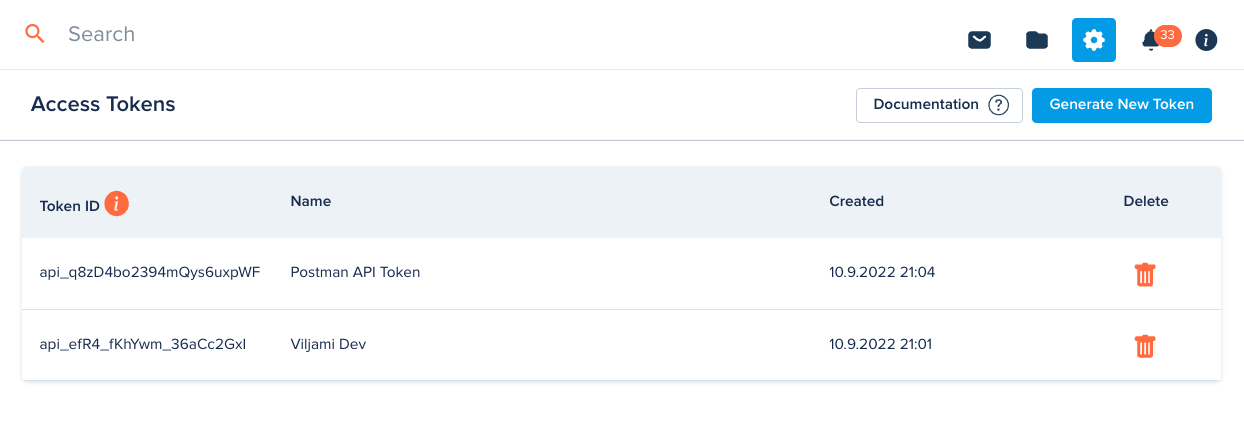
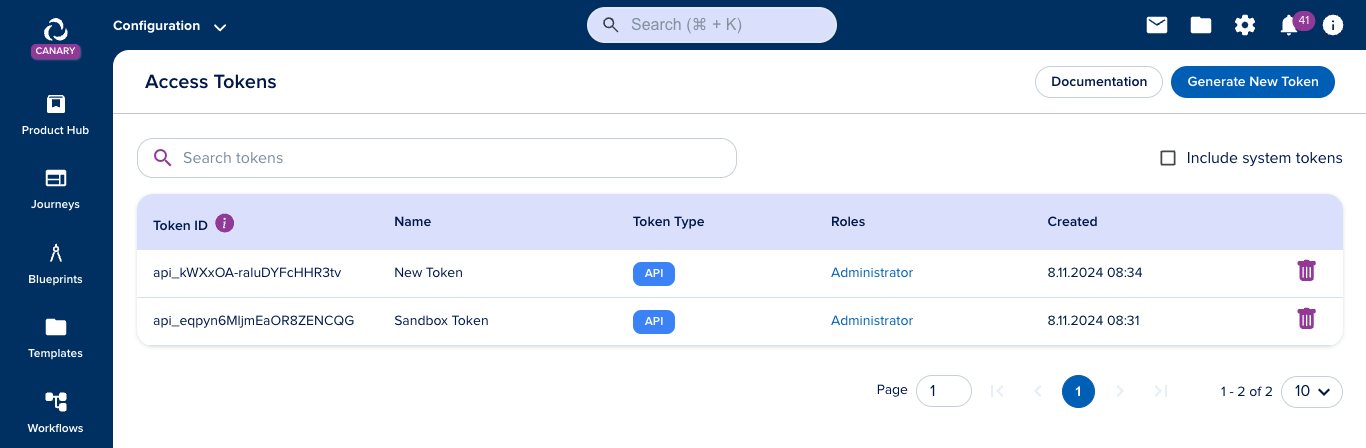
Blueprint docs

diff --git a/docs/blueprints/sandbox.md b/docs/blueprints/sandbox.md
@@ -1,114 +1,57 @@
 ---
-sidebar_position: 1
+sidebar_position: 3
+title: Sandbox
 ---
 
-# Blueprint Pipelines (Sandbox Solution)
-
-A Sandbox solution for customers who wish to safely test epilot configuration in a sandbox environment and promote their changes to their production organization in a controlled fashion using an automated Pipeline.
-This solution introduces easy-to-use *Pipelines*, built on the technical foundation of our currently being developed Blueprints Self Service Solution, which provides a way to export and import configurations between epilot organizations.
+# Sandbox
 
 :::info
 
-This feature is currently in **beta** and fully functional. Expect ongoing improvements and new capabilities in upcoming updates.
+Sandboxes are currently in closed **BETA** only available to selected customers.
 
 :::
 
+Sandboxes are a way to safely test epilot configuration in a sandbox environment and promote configuration changes to production using a Blueprint Pipeline.
 
-![Blueprint Pipelines](/img/blueprints/pipelines.png)
-<p align="center">
-  <i>Figure 1: Blueprint Pipelines</i>
-</p>
+## Connecting a Sandbox
+
+To easily promote configurations such as a journey with its connected resources to production, you should connect your sandbox to your production organization.
+
+To do this, you need to generate an [API Token](/docs/auth/access-tokens) for your sandbox organization and add it to your production organization.
+
+![Create Access Token](/img/create-access-token.png)
+
+Once you have an API token for your sandbox organization, you should log in to your production organization and navigate to [Blueprints > Pipelines to other Organizations](https://portal.epilot.cloud/app/blueprints/pipelines) and select [Connect Organization](https://portal.epilot.cloud/app/blueprints/pipelines/create).
+
+Here you can copy your Sandbox API token to connect your sandbox to your production organization.
+
+![Connect Organization](/img/blueprints/connect-organization.png)
+
+## Switching Between Organizations
+
+To make switching between organizations easier, make sure to invite your user to both organizations, and use the organization switcher in the bottom left corner of the portal.
+
+![Organization Switcher](/img/org-switcher.png)
 
 
-![Create Pipeline](/img/blueprints/connect-pipeline.png)
-<p align="center">
-  <i>Figure 2: Create a Pipeline by connecting an organisation</i>
-</p>
+## Syncing Configurations
 
-### Supported Resources
+Log in to the organization you want to update. If you wish to start by copying existing configuration from production to your sandbox, you should log in to your Sandbox organization. If you want to promote changes from sandox to production, switch to your production organization.
 
-The following resource configurations are supported currently:
+To import configurations via sandbox pipeline, navigate to [Configuration > Blueprints](https://portal.epilot.cloud/app/blueprints) and select [Install Blueprint > Sandbox](https://portal.epilot.cloud/app/blueprints/pipelines/import).
 
-- **Journeys**
-  - Journey Launcher
+![Sandbox Step 1](/img/blueprints/sandbox-step-1.png)
 
-- **Automations**
-  - Webhooks*
-  - Workflows
-  - Email Templates
-  - Document Templates
+If the sandbox is already connected to your production organization, you can pick the source organization from the list.
 
-- **Products**
-  - Prices
-  - Taxes
-  - Cross Sellable Products
-  - Files (Images, Downloads, Availability)
+Next, select the resources you want to import from your source organization. You can choose multiple resources here and preview the list of resources that will be imported.
 
-- **Entity Mappings**
-- **Entity Schemas***
-  - Attributes
-  - Groups
-  - Capabilities
-  - Headlines*
+Click on *Select Resources* once you're happy with your selection.
 
-- **Taxonomies** (Purposes are included here)
-  - Purposes
-    - in Schema attributes
-    - in Schema groups
-    - in Schema root
-    - Purposes assigned to entities
-      - Email templates
-      - Files
-      - Products, prices, taxes
-      - Automation action / Entity mapping
+**Note that at this point, no changes will be made to your organization and you can still review the changes before applying!**
 
-- **Workflows**
-  - Closing Reasons
-  - Automations
-  - Journeys
-  - Portal related configuration
+You will now see a preview of changes that will be made after applying:
 
-- **Email Templates**
-  - Files (Attachments) 
-  - Journeys Linked in Template (Post Qualification Journey)
-  - Custom Variables*
+![Sandbox Step 3](/img/blueprints/sandbox-step-3.png)
 
-- **Files**
-  - Document Templates  
-  - Product Images
-  - Email Attachments
-  - Product Downloads 
-  - Availability Files 
-  - Address Suggestions on Journeys 
-
-- **Designs***
-
----
-
-### A Preview of installing supported resources
-
-![Tree of resources being installed](/img/blueprints/import-resources-tree.png)
-<p align="center">
-  <i>Figure 3: List of resources being installed by the blueprint</i>
-</p>
-
-### Not Supported Resources (Upcoming)
-
-- **Email Templates**
-  - Custom Variables 
-
-### Later
-
-- [ ] Dashboards
-- [ ] Saved Views (Table & Inbox)
-- [ ] Portals
-- [ ] Roles
-- [ ] Families (Labels)
-
-### Known Limitations*
-
-1. Webhooks are included as part of automations, but created in incomplete state, waiting for the user to add a URL and auth configuration.
-2. Installing full schemas can sometimes take a very long time.
-3. Email Templates currently don’t include Custom Variables and cannot be exported independently.
-4. Designs can be copied standalone, but the target organization’s default design is applied for installed Journeys.
-5. Capabilities and Headlines are currently only exported when exporting full schema.
+If you're happy with the changes. Click Approve & Install, and the changes will be applied to the organization you're logged into.

diff --git a/docs/blueprints/intro.md b/docs/blueprints/intro.md
@@ -1,0 +1,41 @@
+---
+title: Blueprints
+sidebar_position: 1
+---
+
+# Blueprints
+
+[[API Docs](/api/blueprints)]
+[[Marketplace](https://marketplace.epilot.cloud)]
+
+:::info
+
+Blueprints are currently in closed **BETA** only available to selected customers.
+
+:::
+
+
+**Blueprints** are an essential feature to package end-to-end epilot configuration into easily installable packages.
+
+![Blueprints](/img/blueprints/blueprint-details.png)
+
+Blueprints are intended to simplify the setup of epilot and radically reduce the time and effort required to go to market with specific industry use cases using the latest epilot features and best practices.
+
+These packages can include a wide variety of connected epilot resources such as *[Products](/docs/entities/schemas-list#product), [Journeys](/docs/journeys/journey-builder), [Automations](/docs/automations/overview), [Workflows](/docs/workflows/overview), [Entity Attributes](/docs/entities/attributes), [Purposes](#), [Labels](#), [Email templates](/docs/entities/schemas-list#email_template) and [Document templates](/docs/files/document-generation)*.
+
+Pre-made Blueprints incorporating latest industry best practices can be installed from the epilot Marketplace. Some examples:
+
+- [Heat Pump Sales](https://marketplace.epilot.cloud/blueprints/edl-heat-pump)
+- [Commodity Sales](https://marketplace.epilot.cloud/blueprints/commodity-b2c)
+- [Solar System Installations](https://marketplace.epilot.cloud/blueprints/solar-b2c)
+- [Registration of PV Systems](https://marketplace.epilot.cloud/blueprints/registration-of-pv-systems)
+- [Registration of Grid Connections](https://marketplace.epilot.cloud/blueprints/hausanschluss-fernwarme)
+
+:::note
+
+**Technical Note**
+
+Blueprints are implemented using official epilot Terraform SDK, available on [Terraform Registry](https://registry.terraform.io/namespaces/epilot-dev). A blueprint file is a zip file containing a terraform configurations that are imported through epilot APIs.
+
+:::
+

diff --git a/docs/blueprints/supported-resources.md b/docs/blueprints/supported-resources.md
@@ -1,0 +1,75 @@
+---
+sidebar_position: 10
+title: Supported Resources
+hide_title: true
+---
+
+## Resources Supported in Blueprints
+
+The following resource configurations are supported for blueprints and sandbox pipelines:
+
+**Journeys**
+- [x] Journey Launcher
+- [x] Post Qualification Journeys
+
+**Automations**
+- [x] Webhooks*
+- [x] Workflows
+- [x] Email Templates
+- [x] Document Templates
+- [x] Entity Mappings
+
+**Products**
+- [x] Prices
+- [x] Taxes
+- [x] Cross Sellable Products
+- [x] Files (Images, Downloads, Availability)
+
+**Schemas**
+- [x] Attributes
+- [x] Groups
+- [x] Capabilities
+- [x] Headlines*
+- [x] Full Schemas (Sandbox only)
+
+**Taxonomies**
+- [x] Purposes
+- [x] Labels
+
+**Workflows**
+- [x] Closing Reasons
+- [x] Automations
+- [x] Journeys
+- [x] Portal related configuration
+
+**Email Templates**
+- [x] Files (Attachments)
+- [x] Journeys Linked in Template (Post Qualification Journey)
+- [x] Custom Variables
+
+**Files**
+- [x] Document Templates
+- [x] Product Images
+- [x] Email Attachments
+- [x] Product Downloads
+- [x] Availability Files
+- [x] Address Suggestions on Journeys
+
+**Designs**
+- [x] Designs
+
+### Upcoming 
+
+- [ ] Dashboards
+- [ ] Saved Views (Table & Inbox)
+- [ ] Roles & Permissions
+- [ ] Families (Labels)
+- [ ] Portals
+
+### Known Limitations*
+
+1. Webhooks are included as part of automations, but created in incomplete state, waiting for the user to add a URL and auth configuration
+1. Importing schemas can sometimes take a very long time.
+1. Only Purpose Taxonomies are currently supported
+1. Designs can be copied standalone now, but the target organization’s default design is applied for imported Journeys
+1. Capabilities and Headlines are currently only exported when exporting full schema

diff --git a/docs/blueprints/installing-a-blueprint.md b/docs/blueprints/installing-a-blueprint.md
@@ -1,0 +1,39 @@
+---
+sidebar_position: 2
+title: Installing a Blueprint
+hide_title: true
+---
+
+## Installing a Blueprint
+
+:::info
+
+Blueprints are currently in closed **BETA** only available to selected customers.
+
+:::
+
+To manage and install Blueprints, navigate to the [Configuration > Blueprints](https://portal.epilot.cloud/app/blueprints) in the epilot portal.
+
+![Blueprints](/img/blueprints/installed-blueprints.png)
+
+To install a new Blueprint, click on "Install Blueprint" and choose the source for your Blueprint.
+
+1. If you already have a Blueprint zip file, you can choose *Upload File*
+1. Choose "Marketplace" to pick a Blueprint from the [epilot Marketplace](https://marketplace.epilot.cloud).
+1. Or if you wish to copy resources from another epilot organization, you can choose *"Sandbox"*.
+
+![Install Blueprint](/img/blueprints/install-blueprint.png)
+
+After picking a blueprint from your source, epilot will show a preview (plan) of what will get added or changed in your organization as part of the Blueprint. 
+
+**Note that at this point, no changes will be made to your organization and you can still review the Blueprint before installing it!**
+
+After you have reviewed the changes, click on *Import Resources* to start the Blueprint installation.
+
+![View Plan Step](/img/blueprints/view-plan.png)
+
+The installation will take up to a few minutes to complete. 
+
+After the installation is complete, you will see a list of all the resources that were installed, and can click on each one to view the details and edit the configuration.
+
+We recommend that you test the Blueprint in a sandbox environment before installing it in your production organization.

diff --git a/docs/auth/access-tokens.md b/docs/auth/access-tokens.md
@@ -23,15 +23,13 @@ Authorization: Bearer <your-access-token>
 
 ## Creating Access Tokens
 
-Users logged into the epilot portal can manage their Access Tokens from [Settings > Access Tokens](https://portal.epilot.cloud/app/tokens).
+Users logged into the epilot portal can manage their Access Tokens from [Integrations > Access Tokens](https://portal.epilot.cloud/app/tokens).
 
 Creating access tokens requires the `token:create` permission.
 
-![Access Token Link via Configuration Menu](../../static/img/access-token-menu.png)
-
 When creating an Access Token, the token inherits the roles and permissions of the logged in user.
 
-![Access Token create view](../../static/img/access-token-create.png)
+![Access Token create view](/img/create-access-token.png)
 
 :::note
 The generated token is shown only once and must be saved by the user.

diff --git a/docs/intro.md b/docs/intro.md
@@ -24,12 +24,6 @@ Explore and learn to use our APIs to build your own solutions on epilot.
 
 [Overview](/docs/architecture/api-first) - [Docs](/api)
 
-## Blueprints
-
-Explore Blueprint pipelines (Sandbox solution) and the upcoming Epilot Marketplace.
-
-[Overview](/docs/blueprints/sandbox)
-
 ## SDK
 
 Explore our developer tools and get started with the epilot SDK
